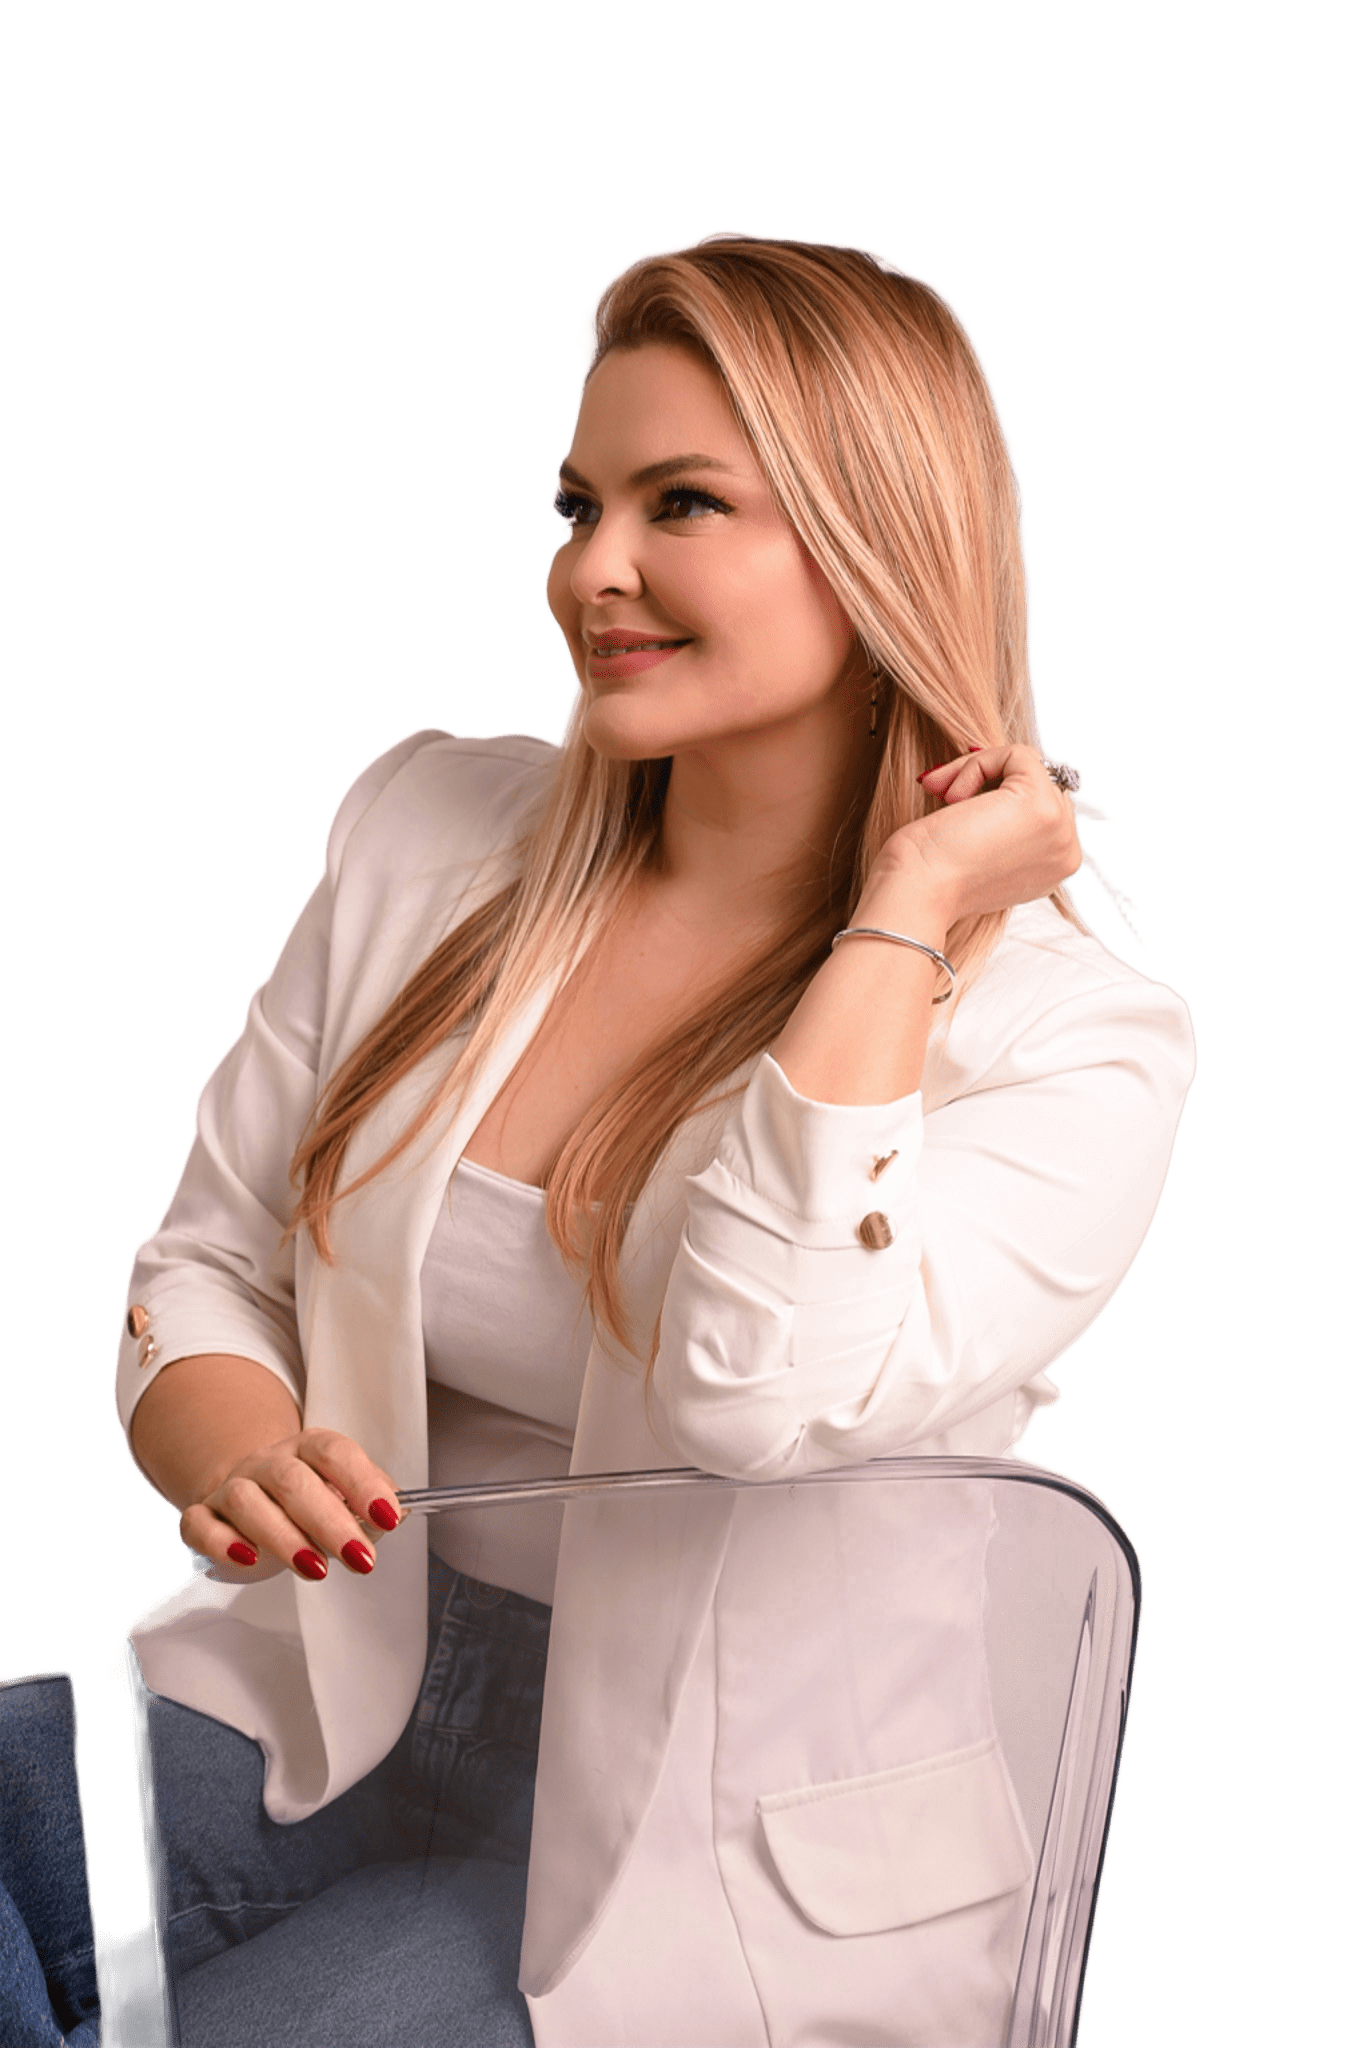
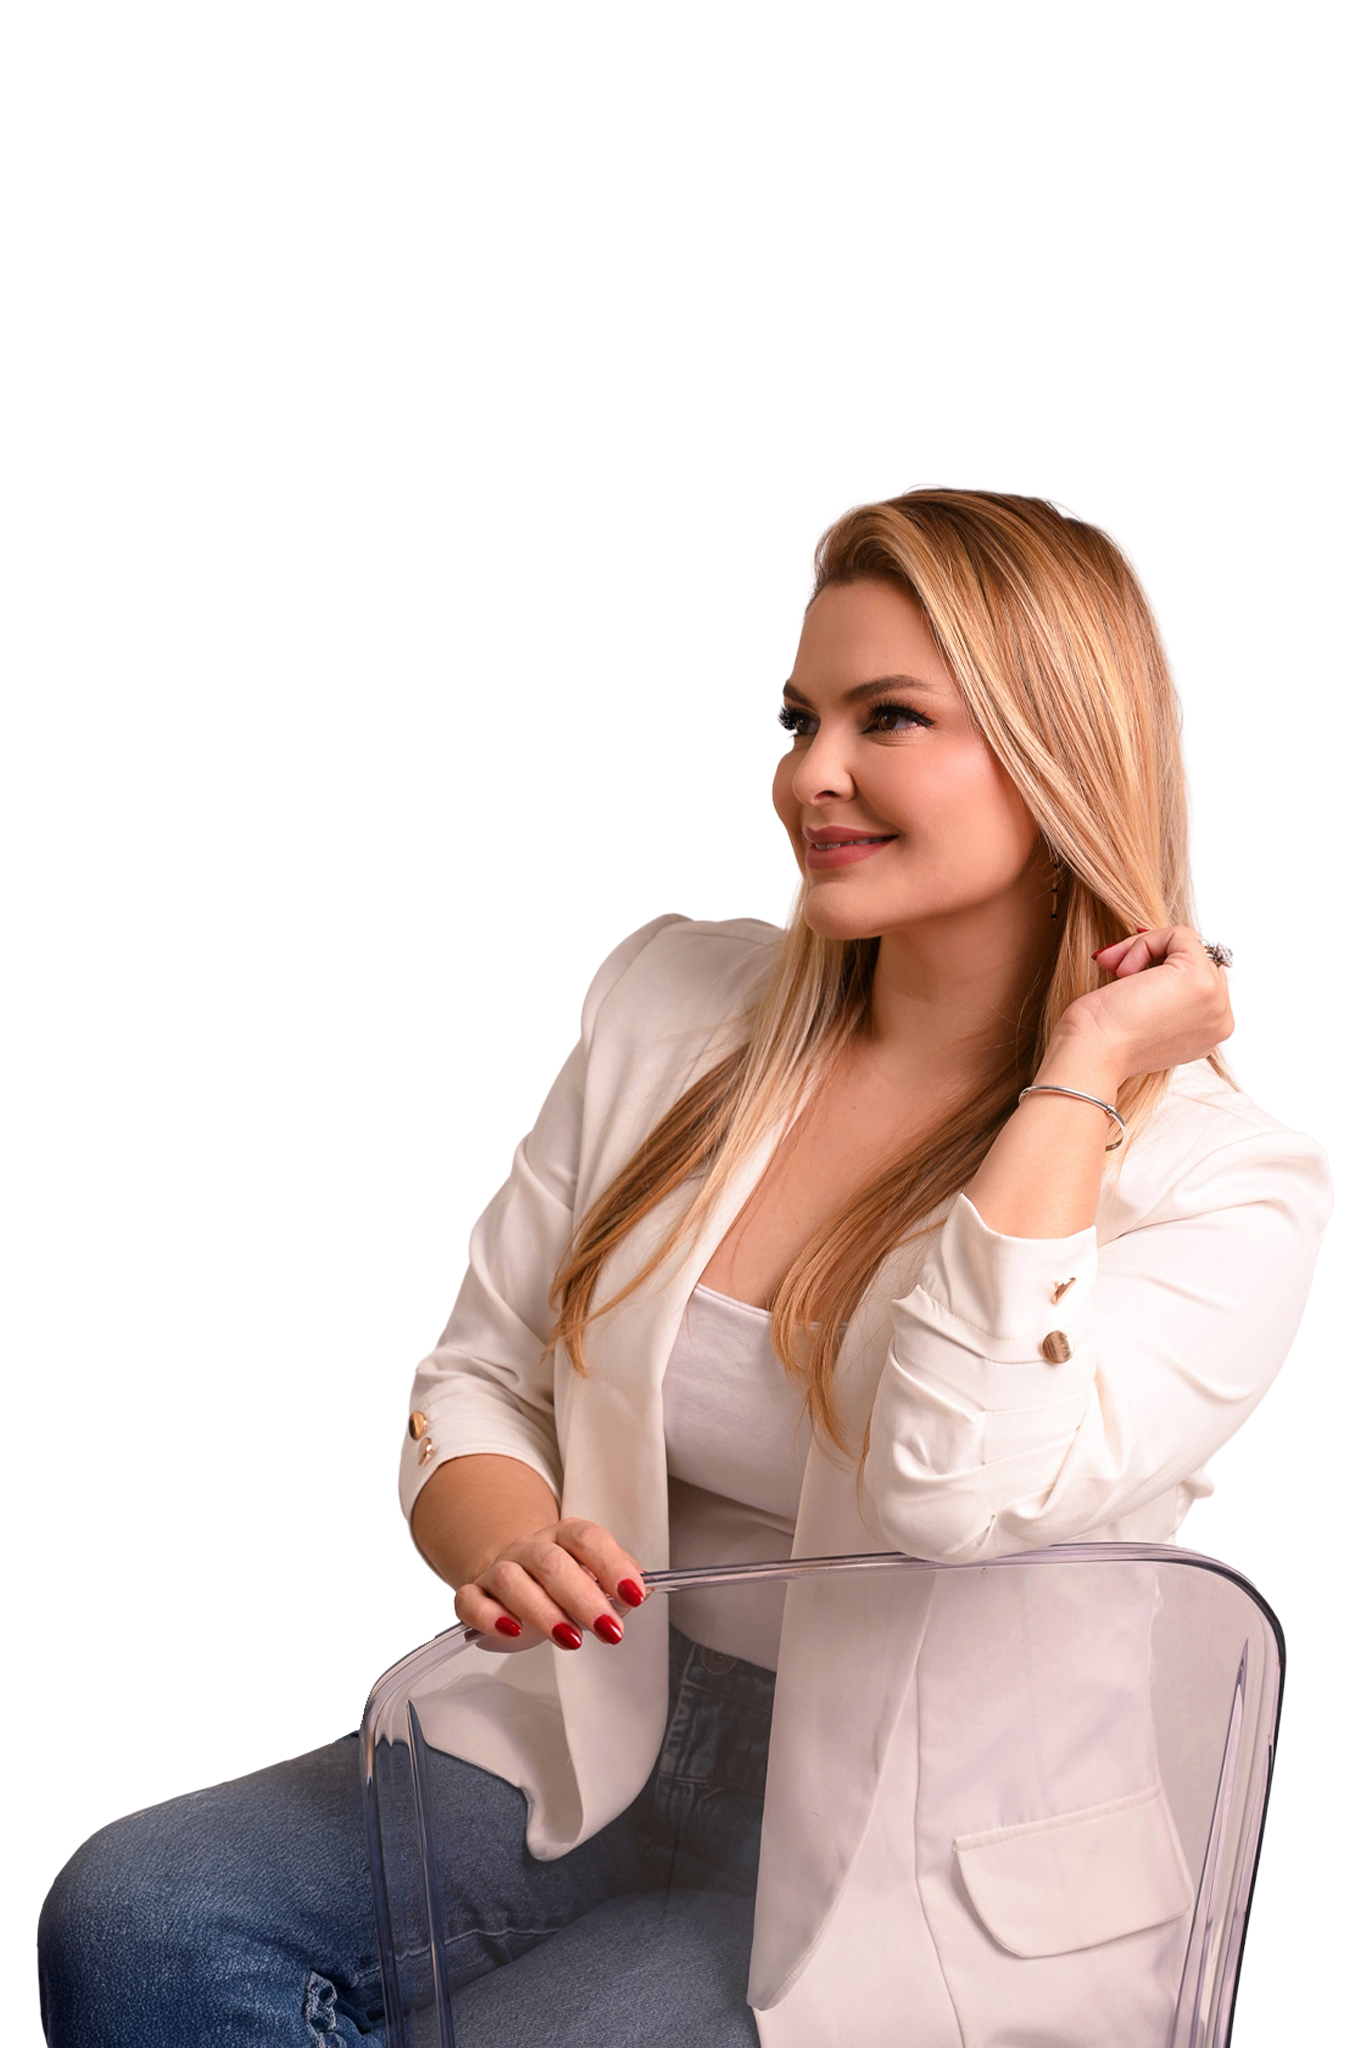
Changing the main card image in the 'index' and adjusting the spaces inside and outside the card

diff --git a/index.html b/index.html
@@ -466,7 +466,7 @@
             </div>
         </section>
 
-        <section id="contato-mobile" class="mobile-only overlay-section z-20 color-sec-cares">
+        <section id="contato-mobile" class="mobile-only overlay-section z-20 back-sec-atendimento">
             <div class="relative lg:hidden flex flex-col items-center card card-wtsp lg:max-w-5xl mx-auto shadow-lg overflow-hidden">
                 <div class="block absolute inset-0 bg-black/30"></div>
                 <div class="z-10 py-12 px-8 lg:pl-20 lg:pr-8 lg:py-16 flex flex-col justify-end text-center lg:text-left flex-grow">
@@ -478,7 +478,7 @@
                         o primeiro passo para realçar sua beleza e bem-estar.
                     </p>
                     <div class="flex justify-center lg:justify-start">
-                        <a href="https://wa.me/5562994479641" target="_blank"
+                        <a href="" href="https://wa.me/5562994479641" target="_blank"
                             class="bg-green-500 text-white font-semibold py-3 px-6 rounded-lg inline-flex items-center text-base md:text-lg shadow-lg hover:bg-green-600 transform hover:scale-105 transition-all duration-300">
                             <svg xmlns="http://www.w3.org/2000/svg" width="22" height="22" viewBox="0 0 24 24" fill="none"
                                 stroke="currentColor" stroke-width="2" stroke-linecap="round" stroke-linejoin="round"
@@ -579,5 +579,3 @@
 </body>
 
 </html>
-<!-- Developed by Miguel A. Pacheco - Optimum co.
-GitHub - MiguelPacheco7-->

diff --git a/styles/style.css b/styles/style.css
@@ -352,10 +352,12 @@ body {
 }
 
 .card-wtsp {
-    height: 600px;
-    background-image: url('/New Photos/IMG_7869.JPG');
+    margin-top: -10px;
+    background-color: #d6c2ba;
+    height: 500px;
+    background-image: url('/New Photos/IMG_7953.png');
     background-size: cover;
-    background-position: center;
+    background-position: center -100px; 
     border-top-left-radius: 2rem;
     border-top-right-radius: 2rem;
 }
@@ -413,13 +415,11 @@ footer {
 .agende-consulta-img {
     /* Suas propriedades existentes que movem a imagem para cima */
     height: 550px;
-    margin-top: -110px;
-    margin-right: -50px;
+    margin-top: -150px;
     position: relative;
     z-index: 10;
 
     /* --- NOVAS PROPRIEDADES PARA O EFEITO 3D --- */
-
     /* 1. Adiciona uma sombra que segue o contorno da imagem */
     filter: drop-shadow(0px 10px 15px rgba(0, 0, 0, 0.2));
 }
